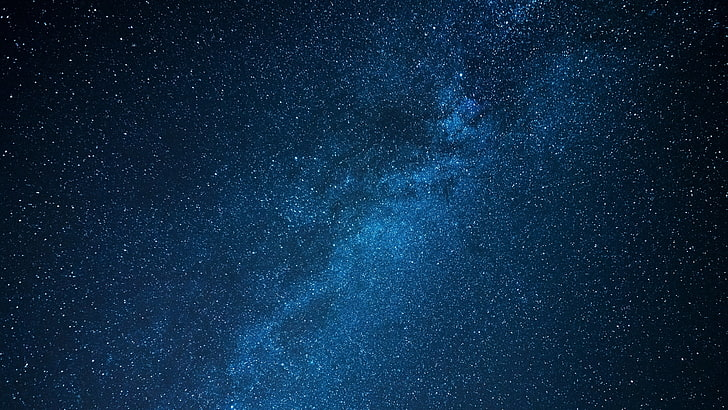
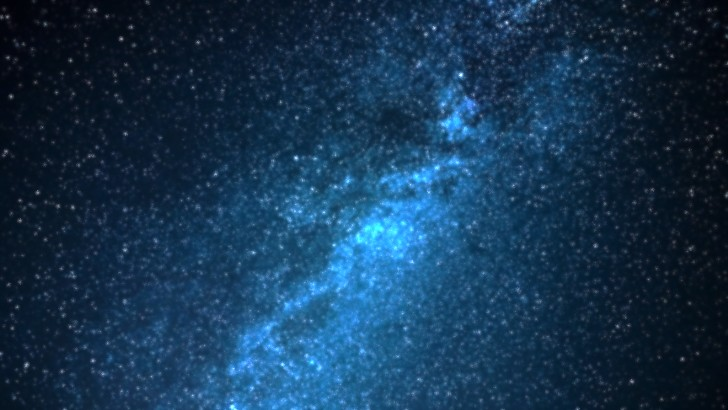
mudei a escala do espaco para bater com a proporcao a imagem e tb diminui a nitidez para parecer menor pixelado se estiver ruim deleta tudo

diff --git a/Tarefa3/scene_graph/python/main_2d.py b/Tarefa3/scene_graph/python/main_2d.py
@@ -108,7 +108,7 @@ def init_app():
 
     # --- FUNDO (space.jpg) ---
     background_disk = Disk(segments=4)
-    background_scale = Transform(); background_scale.Scale(50.0, 50.0, 1.0)
+    background_scale = Transform(); background_scale.Scale(72.80, 41.00, 1.0)
     background_translate = Transform(); background_translate.Translate(0.0, 0.0, -0.1)  # manda para trás
     background_node = Node(shader=static_planet_shader, trf=background_translate, apps=[space_texture], shps=[background_disk])
     background_scale_node = Node(trf=background_scale, nodes=[background_node])
